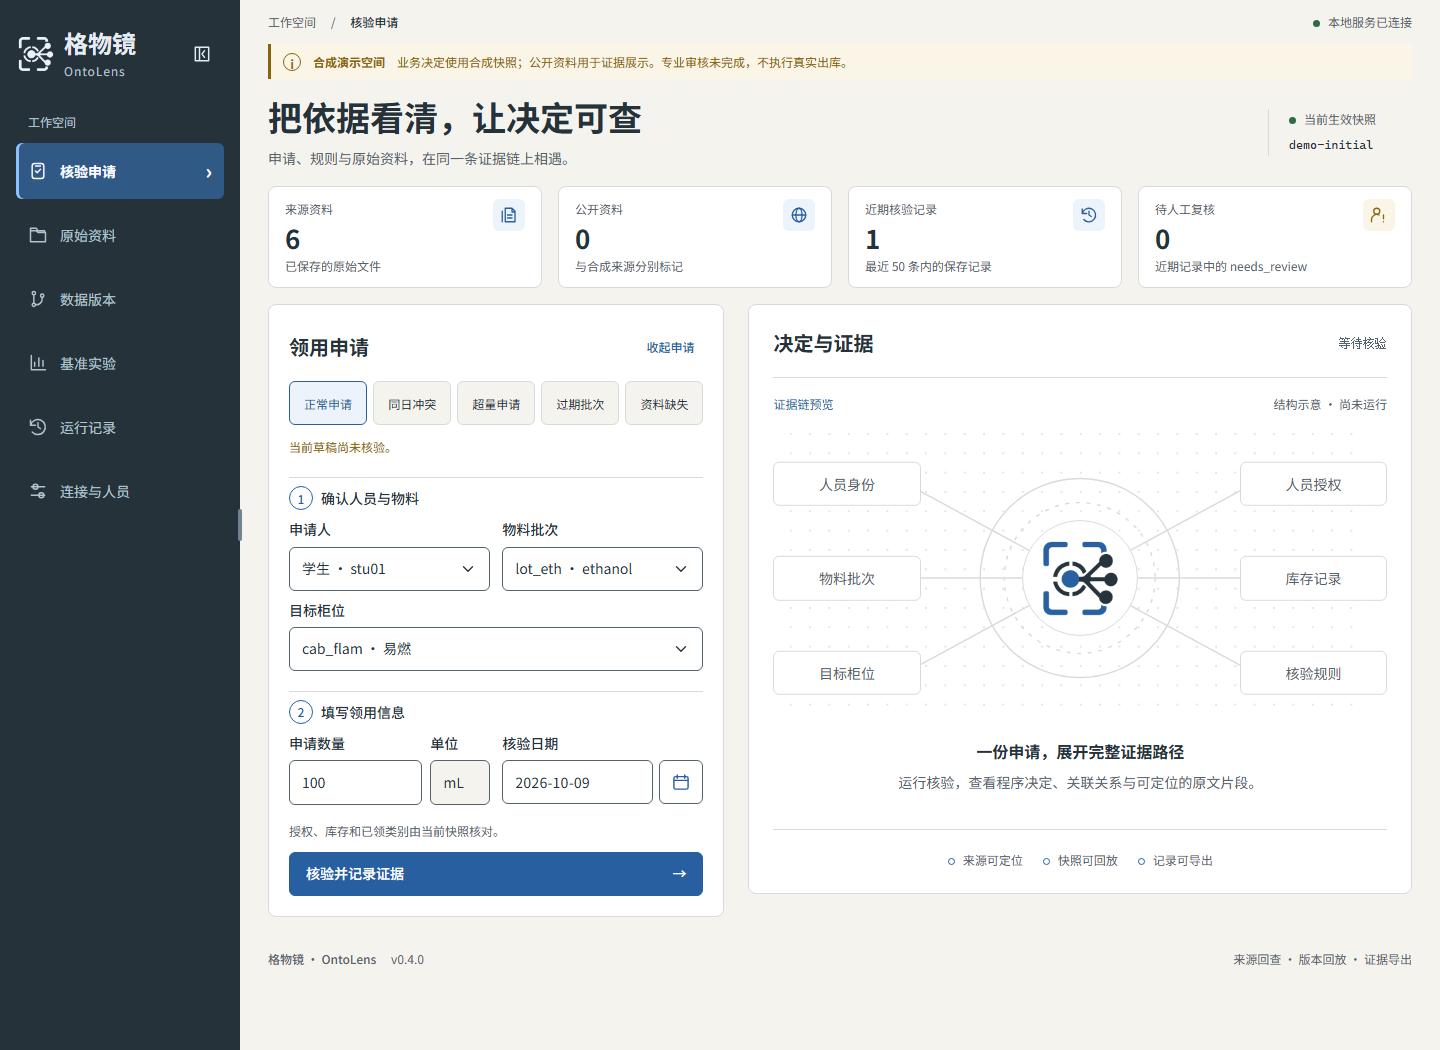
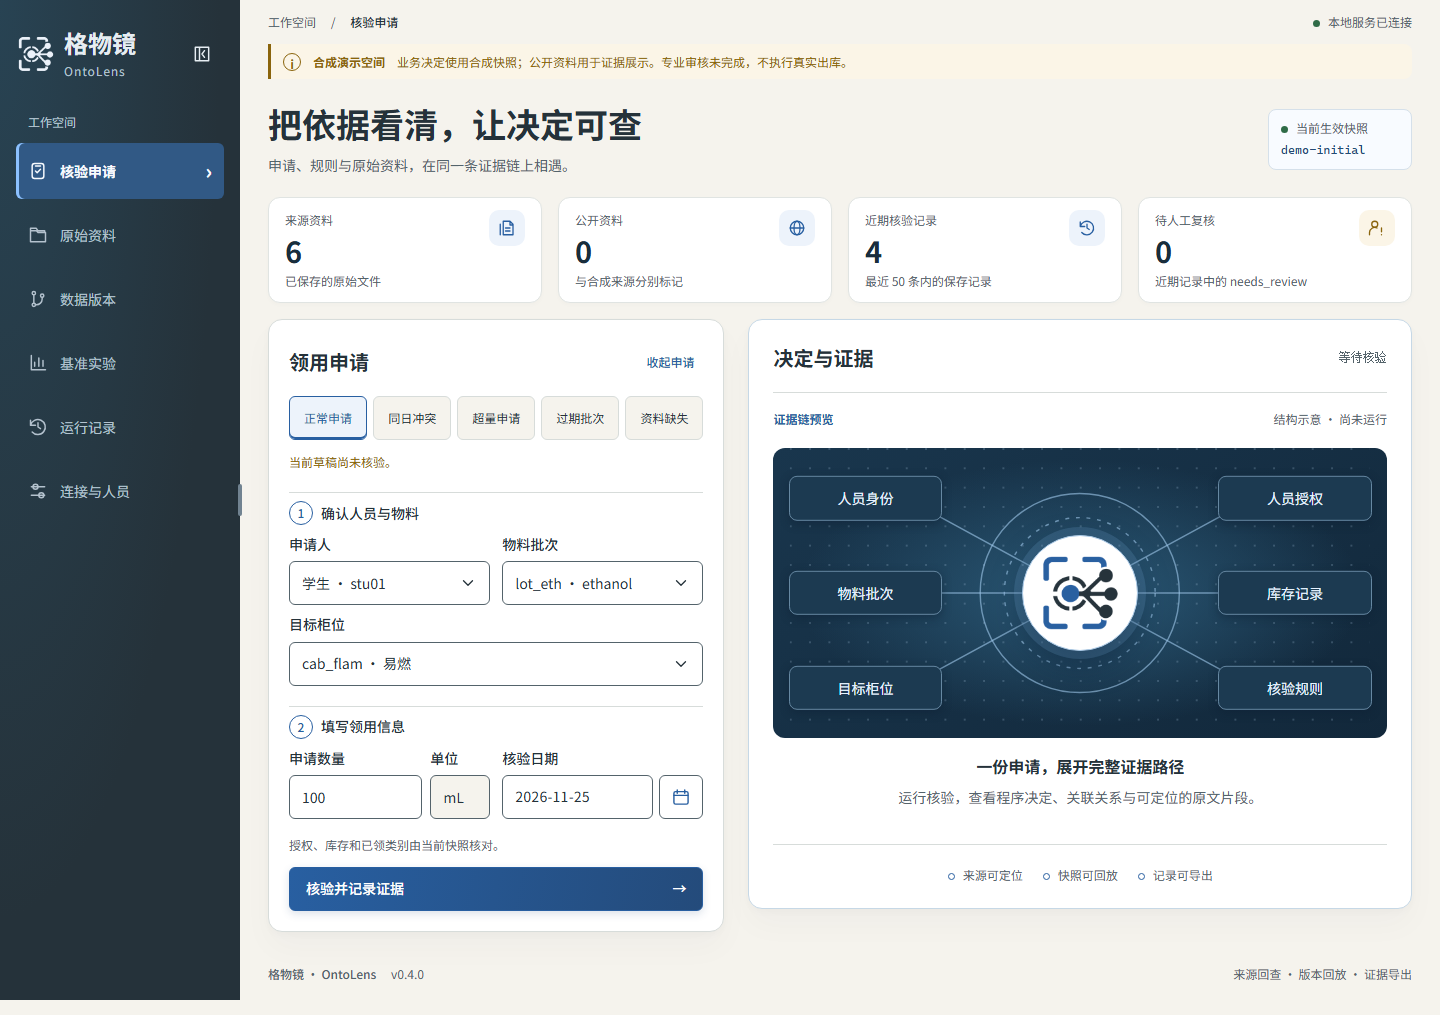
Refine verification workbench visual hierarchy

diff --git a/src/ontolens/static/style.css b/src/ontolens/static/style.css
@@ -69,3 +69,194 @@ main[data-work-layout=wide] #check-workspace.inspecting{grid-template-columns:32
 @media(prefers-reduced-motion:reduce){.date-panel{transition:none!important}}
 /* Keep pane widths safe before ResizeObserver applies the new layout state. */
 @container workspace (max-width:819px){#main-workspace .workspace-grid,#main-workspace #check-workspace,#main-workspace #check-workspace.inspecting{grid-template-columns:minmax(0,1fr)}#main-workspace #check-workspace.inspecting>.request-panel,#main-workspace #check-workspace.inspecting>.result-panel,#main-workspace #check-workspace.inspecting>.inspector-docked{grid-column:1;grid-row:auto}}
+
+/* Verification workbench visual hierarchy */
+:root {
+  --graph-ink: #12283b;
+  --graph-light: #e6f2ff;
+  --panel-depth: 0 3px 8px #182b3a06, 0 16px 32px #182b3a07;
+}
+
+@media (min-width: 761px) {
+  .app-sidebar {
+    background: radial-gradient(ellipse at top left, #284353, transparent 65%), var(--nav-surface);
+  }
+
+  .app-sidebar .nav-item.active {
+    background: linear-gradient(100deg, #386793, var(--nav-active));
+  }
+}
+
+.scope-banner {
+  border-radius: 0 8px 8px 0;
+}
+
+.skip-link:not(:focus) {
+  clip-path: inset(50%);
+}
+
+#view-check > .heading {
+  padding: 7px 0 4px;
+  align-items: center;
+}
+
+#view-check .version-stamp {
+  padding: 8px 12px;
+  border: 1px solid #d5e0ea;
+  border-radius: 8px;
+  background: #f8fbff;
+}
+
+#view-check .version-stamp code {
+  display: block;
+  margin-top: 2px;
+  color: #234b75;
+}
+
+.overview-card {
+  min-height: 98px;
+  border-color: #e0e4e2;
+  border-radius: 12px;
+  box-shadow: 0 2px 5px #182b3a05;
+}
+
+.overview-card strong {
+  font-size: 29px;
+  font-weight: 700;
+  color: #192d3c;
+}
+
+.overview-icon {
+  width: 36px;
+  height: 36px;
+  border-radius: 10px;
+}
+
+#check-workspace > .panel {
+  border-radius: 14px;
+  box-shadow: var(--panel-depth);
+}
+
+#check-workspace .result-panel {
+  border-color: #c6d8e6;
+}
+
+#check-workspace .request-panel .presets button.selected {
+  box-shadow: inset 0 -2px var(--accent);
+}
+
+#check-workspace #check-form .primary:not(:disabled) {
+  background: linear-gradient(100deg, #285fa1, #244b7b);
+  box-shadow: 0 3px 8px #244b7b29;
+}
+
+#check-workspace #check-form .primary:not(:disabled):hover {
+  background: #1c426d;
+}
+
+#empty-result .evidence-map {
+  isolation: isolate;
+  border-radius: 12px;
+  background:
+    radial-gradient(ellipse at center, #2b5a78 0%, transparent 65%),
+    linear-gradient(145deg, #19364d, var(--graph-ink));
+}
+
+#empty-result .map-lines {
+  overflow: hidden;
+  border-radius: inherit;
+}
+
+#empty-result .map-lines pattern circle {
+  fill: #a9c6e2;
+  opacity: .32;
+}
+
+#empty-result .map-links {
+  stroke: #9ec8e9;
+  stroke-opacity: .61;
+}
+
+#empty-result .map-node {
+  width: 25%;
+  border-color: #6688a2;
+  border-radius: 8px;
+  background: #1c3a51;
+  color: var(--graph-light);
+  box-shadow: 0 3px 10px #0d203473;
+}
+
+#empty-result .map-left {
+  left: 2.5%;
+}
+
+#empty-result .map-right {
+  right: 2.5%;
+}
+
+#empty-result .map-core {
+  border-color: #aac9e6;
+  box-shadow: 0 0 0 8px #82b8e82b, 0 12px 30px #0c223b8c;
+}
+
+#empty-result .map-caption span:first-child {
+  font-weight: 600;
+}
+
+#check-workspace .result-context,
+#check-workspace .decision-banner {
+  border-radius: 10px;
+}
+
+#check-workspace .decision-banner {
+  box-shadow: inset 0 0 0 1px currentColor;
+  background-image: linear-gradient(115deg, #ffffff66, transparent 65%);
+}
+
+#check-workspace .evidence-chain {
+  gap: 12px;
+}
+
+#check-workspace .evidence-node {
+  padding: 10px;
+  border: 1px solid #e0e7ed;
+  border-radius: 10px;
+  background: #fcfdff;
+}
+
+#check-workspace .evidence-node.unresolved {
+  border-color: #dac594;
+  background: #fffbf2;
+}
+
+#check-workspace .evidence-node .relation-select {
+  background: #edf3f9;
+  color: #244a6e;
+}
+
+#check-workspace .evidence-node.unresolved .relation-select {
+  background: var(--warning-soft);
+  color: var(--orange);
+}
+
+@media (max-width: 760px) {
+  #view-check > .heading {
+    padding-top: 0;
+  }
+
+  .overview-card {
+    min-height: 86px;
+  }
+
+  .overview-card strong {
+    font-size: 26px;
+  }
+
+  #empty-result .evidence-map {
+    height: 222px;
+  }
+
+  #empty-result .map-node {
+    width: 29%;
+  }
+}
